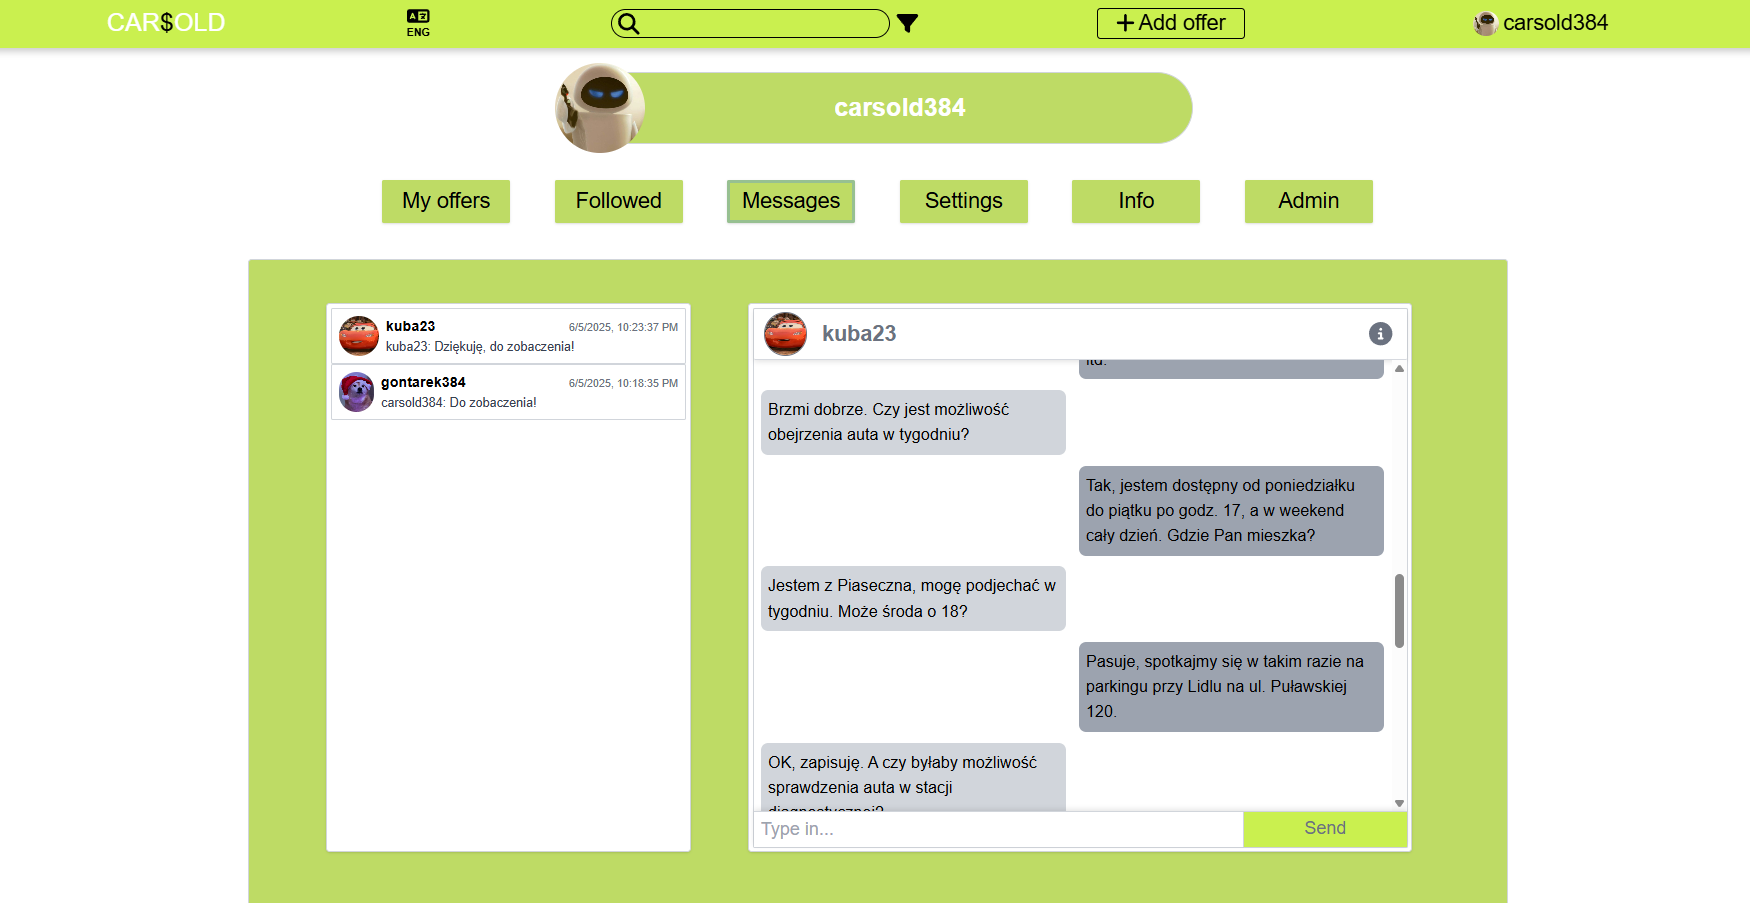
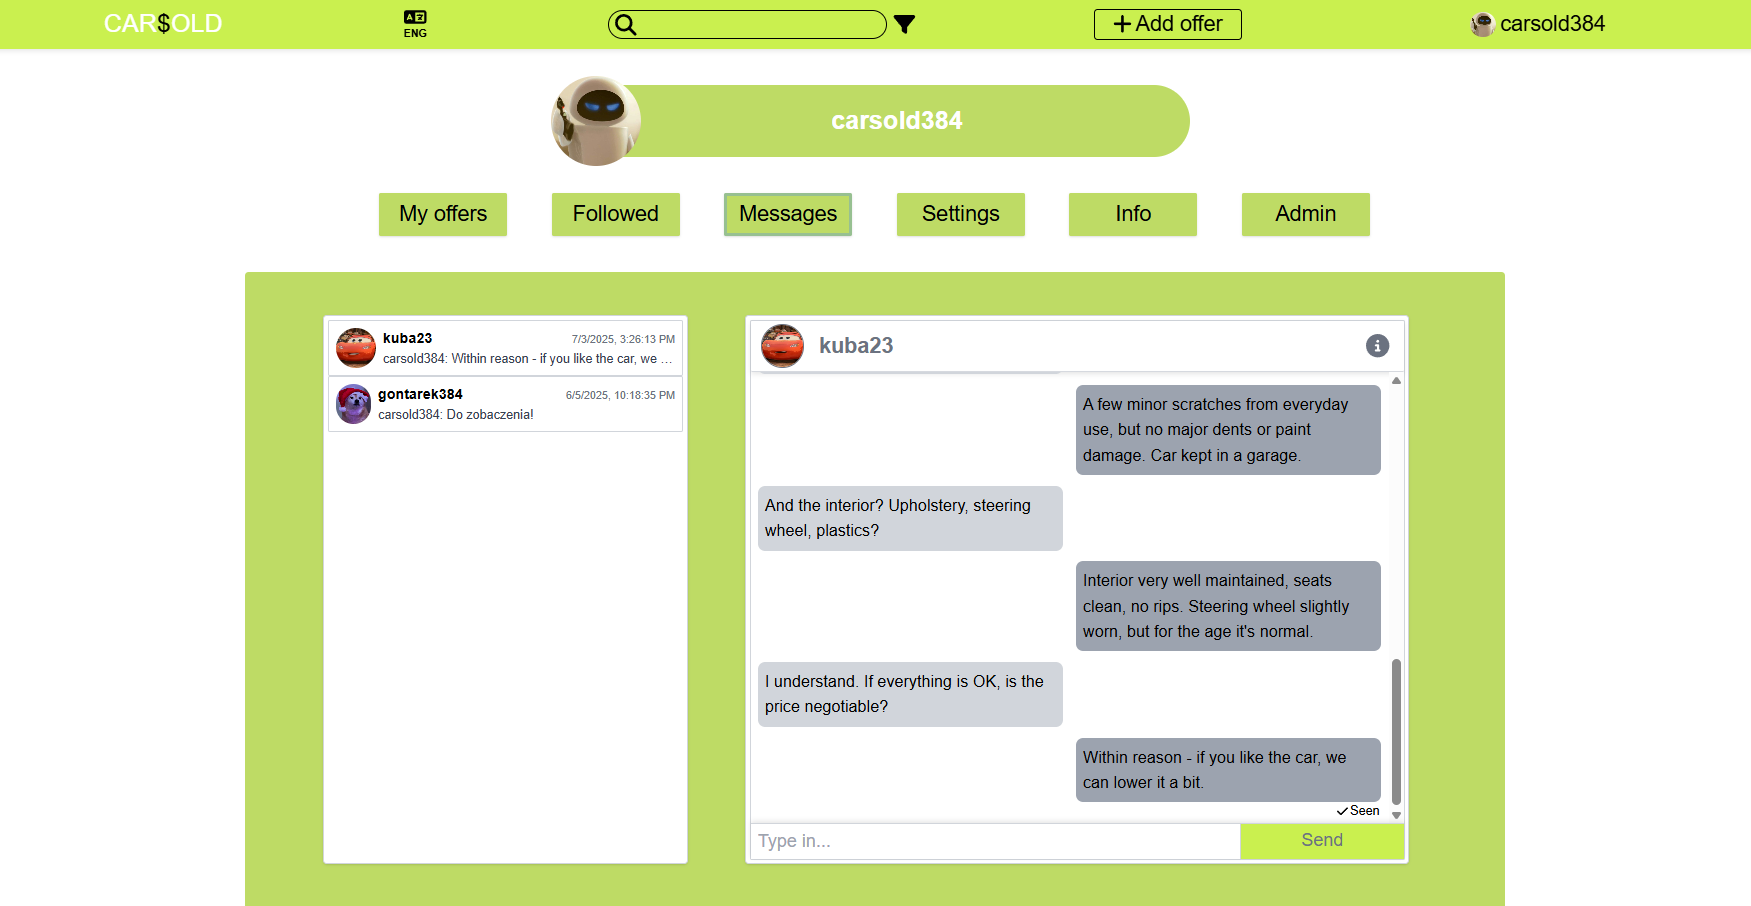
CARSOLD #251 | 1) Change OfferForm.tsx buttons layout, also modified appearance a bit 2) Reduced LowerBar.tsx shadow 3) Added LinkedIn profile link to Info.tsx, also modified layout a bit 4) Changed one app showcase photo (repo)

diff --git a/CARSOLD/frontend/src/PageComponents/AddingOffer/OfferForm.tsx b/CARSOLD/frontend/src/PageComponents/AddingOffer/OfferForm.tsx
@@ -1179,11 +1179,13 @@ const OfferForm: React.FC = () => {
                                         symbol={offer.currency} firstOtherSymbol="PLN" secondOtherSymbol="EUR" setSymbol={handleSetOffer("currency")}
                                         required={true} message={message.price} setToggled={handleSetToggled("price")}/>
                         </div>
-                        <div className="flex justify-center m:block w-full mb-24 m:mb-28">
+                        <div className="flex justify-center m:block w-full mb-20 m:mb-28">
                             <ContactDetails/>
                         </div>
-                        <div className="flex flex-row flex-wrap justify-center m:justify-start w-[96%] m:w-full m:pr-3 gap-3 m:gap-4 mb-20 m:mb-24">
-                            <SubmitOfferButton onClick={id !== null && permission === true ? handleUpdateOffer : handleAddOffer} type={id !== null && permission === true}/>
+                        <div className="flex flex-row flex-wrap justify-center m:justify-start w-[96%] m:w-full m:pr-3 gap-3 m:gap-4 mb-24 m:mb-16">
+                            <div className="flex justify-center w-full m:w-fit">
+                                <SubmitOfferButton onClick={id !== null && permission === true ? handleUpdateOffer : handleAddOffer} type={id !== null && permission === true}/>
+                            </div>
                             {id !== null && permission === true && <DeleteOfferButton onClick={handleDeleteOffer}/>}
                             <CancelButton onClick={() => navigate("/details/myOffers?page=0")}/>
                         </div>

diff --git a/CARSOLD/frontend/src/PageComponents/AccountDetails/Content/Info/Atomic/Socials/Socials.tsx b/CARSOLD/frontend/src/PageComponents/AccountDetails/Content/Info/Atomic/Socials/Socials.tsx
@@ -14,9 +14,11 @@ const Socials: React.FC<SocialsProps> = ({ active }) => {
     return (
         <div className="mt-14 m:mt-16">
             <h2 className="mb-8 m:mb-10 font-bold">{t("socials")}</h2>
-            <div className="flex flex-col items-center relative z-10 gap-2 m:gap-3">
+            <div className="flex flex-col items-center relative z-10 gap-4 m:gap-5">
                 <SocialLink imageUrl="https://upload.wikimedia.org/wikipedia/commons/thumb/9/91/Octicons-mark-github.svg/600px-Octicons-mark-github.svg.png"
                             name="GitHub" link="https://github.com/Gontar384"/>
+                <SocialLink imageUrl="https://upload.wikimedia.org/wikipedia/commons/thumb/c/ca/LinkedIn_logo_initials.png/600px-LinkedIn_logo_initials.png"
+                            name="LinkedIn" link="https://www.linkedin.com/in/jakub-gontarek-3b8210370/"/>
                 <SocialLink imageUrl="https://upload.wikimedia.org/wikipedia/commons/thumb/9/95/Instagram_logo_2022.svg/600px-Instagram_logo_2022.svg.png"
                             name="Instagram" link="https://www.instagram.com/g0ntar/"/>
             </div>

diff --git a/CARSOLD/frontend/src/LayOut/NavBar/Atomic/LowerBar/LowerBar.tsx b/CARSOLD/frontend/src/LayOut/NavBar/Atomic/LowerBar/LowerBar.tsx
@@ -34,7 +34,7 @@ const LowerBar: React.FC = () => {
     if (lowerBarActive) {
         return (
             <nav className={`flex flex-row items-center justify-evenly h-14 fixed left-0 bottom-0 
-                right-0 bg-lime shadow-top z-50 ${barAnimation} touch-none`}>
+                right-0 bg-lime shadow-top-l z-50 ${barAnimation} touch-none`}>
                 <MobileButton onClick={() => navigate("/addingOffer")} icon={faSquarePlus} label={t("mobileButton1")}/>
                 <MobileButton onClick={() => navigate("/details/followed?page=0")} icon={faHeart} label={t("mobileButton2")}/>
                 <MobileButton onClick={() => navigate("/details/myOffers?page=0")} icon={faUser} label={t("mobileButton4")}/>

diff --git a/CARSOLD/frontend/src/PageComponents/AddingOffer/Atomic/Button/SubmitOfferButton.tsx b/CARSOLD/frontend/src/PageComponents/AddingOffer/Atomic/Button/SubmitOfferButton.tsx
@@ -20,7 +20,7 @@ const SubmitOfferButton: React.FC<SubmitOfferButtonProps> = ({ onClick, type }) 
     };
 
     return (
-        <button className="p-2 m:p-3 text-lg m:text-xl border-[3px] text-nowrap border-gray-300 rounded-lg bg-white relative"
+        <button className="p-2 m:p-3 text-lg m:text-xl text-nowrap border-2 border-gray-300 rounded-lg bg-white relative"
                 onMouseEnter={!isMobile ? () => setHovered(true) : undefined}
                 onMouseLeave={!isMobile ? () => setHovered(false) : undefined}
                 onTouchStart={isMobile ? handleTouchButton : undefined}

diff --git a/CARSOLD/frontend/src/PageComponents/AddingOffer/Atomic/Button/CancelButton.tsx b/CARSOLD/frontend/src/PageComponents/AddingOffer/Atomic/Button/CancelButton.tsx
@@ -19,7 +19,7 @@ const CancelButton: React.FC<CancelButtonProps> = ({ onClick }) => {
     };
 
     return (
-        <button className="p-2 m:p-3 text-lg m:text-xl border-[3px] text-nowrap border-gray-300 rounded-lg bg-gray-200 relative"
+        <button className="p-2 m:p-3 text-lg m:text-xl text-nowrap border-2 border-gray-300 rounded-lg bg-gray-200 relative"
             onMouseEnter={!isMobile ? () => setHovered(true) : undefined}
             onMouseLeave={!isMobile ? () => setHovered(false) : undefined}
             onTouchStart={isMobile ? handleTouchButton : undefined}

diff --git a/CARSOLD/frontend/src/PageComponents/AddingOffer/Atomic/Button/DeleteOfferButton.tsx b/CARSOLD/frontend/src/PageComponents/AddingOffer/Atomic/Button/DeleteOfferButton.tsx
@@ -20,7 +20,7 @@ const DeleteOfferButton: React.FC<DeleteOfferButtonProps> = ({onClick}) => {
 
     return (
         <>
-            <button className="p-2 m:p-3 text-lg m:text-xl text-white text-nowrap border-[3px] border-gray-300
+            <button className="p-2 m:p-3 text-lg m:text-xl text-white text-nowrap border-2 border-gray-300
             rounded-lg bg-coolRed relative "
                     onMouseEnter={!isMobile ? () => setHovered(true) : undefined}
                     onMouseLeave={!isMobile ? () => setHovered(false) : undefined}

diff --git a/CARSOLD/frontend/src/PageComponents/AccountDetails/Content/Info/Atomic/Version.tsx b/CARSOLD/frontend/src/PageComponents/AccountDetails/Content/Info/Atomic/Version.tsx
@@ -14,7 +14,7 @@ const Version: React.FC<VersionProps> = ({v}) => {
     const {t} = useLanguage();
 
     return (
-        <div className="flex flex-row items-center gap-2 m:gap-3 mt-24 m:mt-28">
+        <div className="flex flex-row items-center gap-2 m:gap-3 mt-20 m:mt-24">
             <h2>CARSOLD {t("version")} {v.toFixed(1)}</h2>
             <FontAwesomeIcon icon={faGear} className={`${animation}`}
                              onMouseEnter={!isMobile ? () => setAnimation("animate-shock") : undefined}
